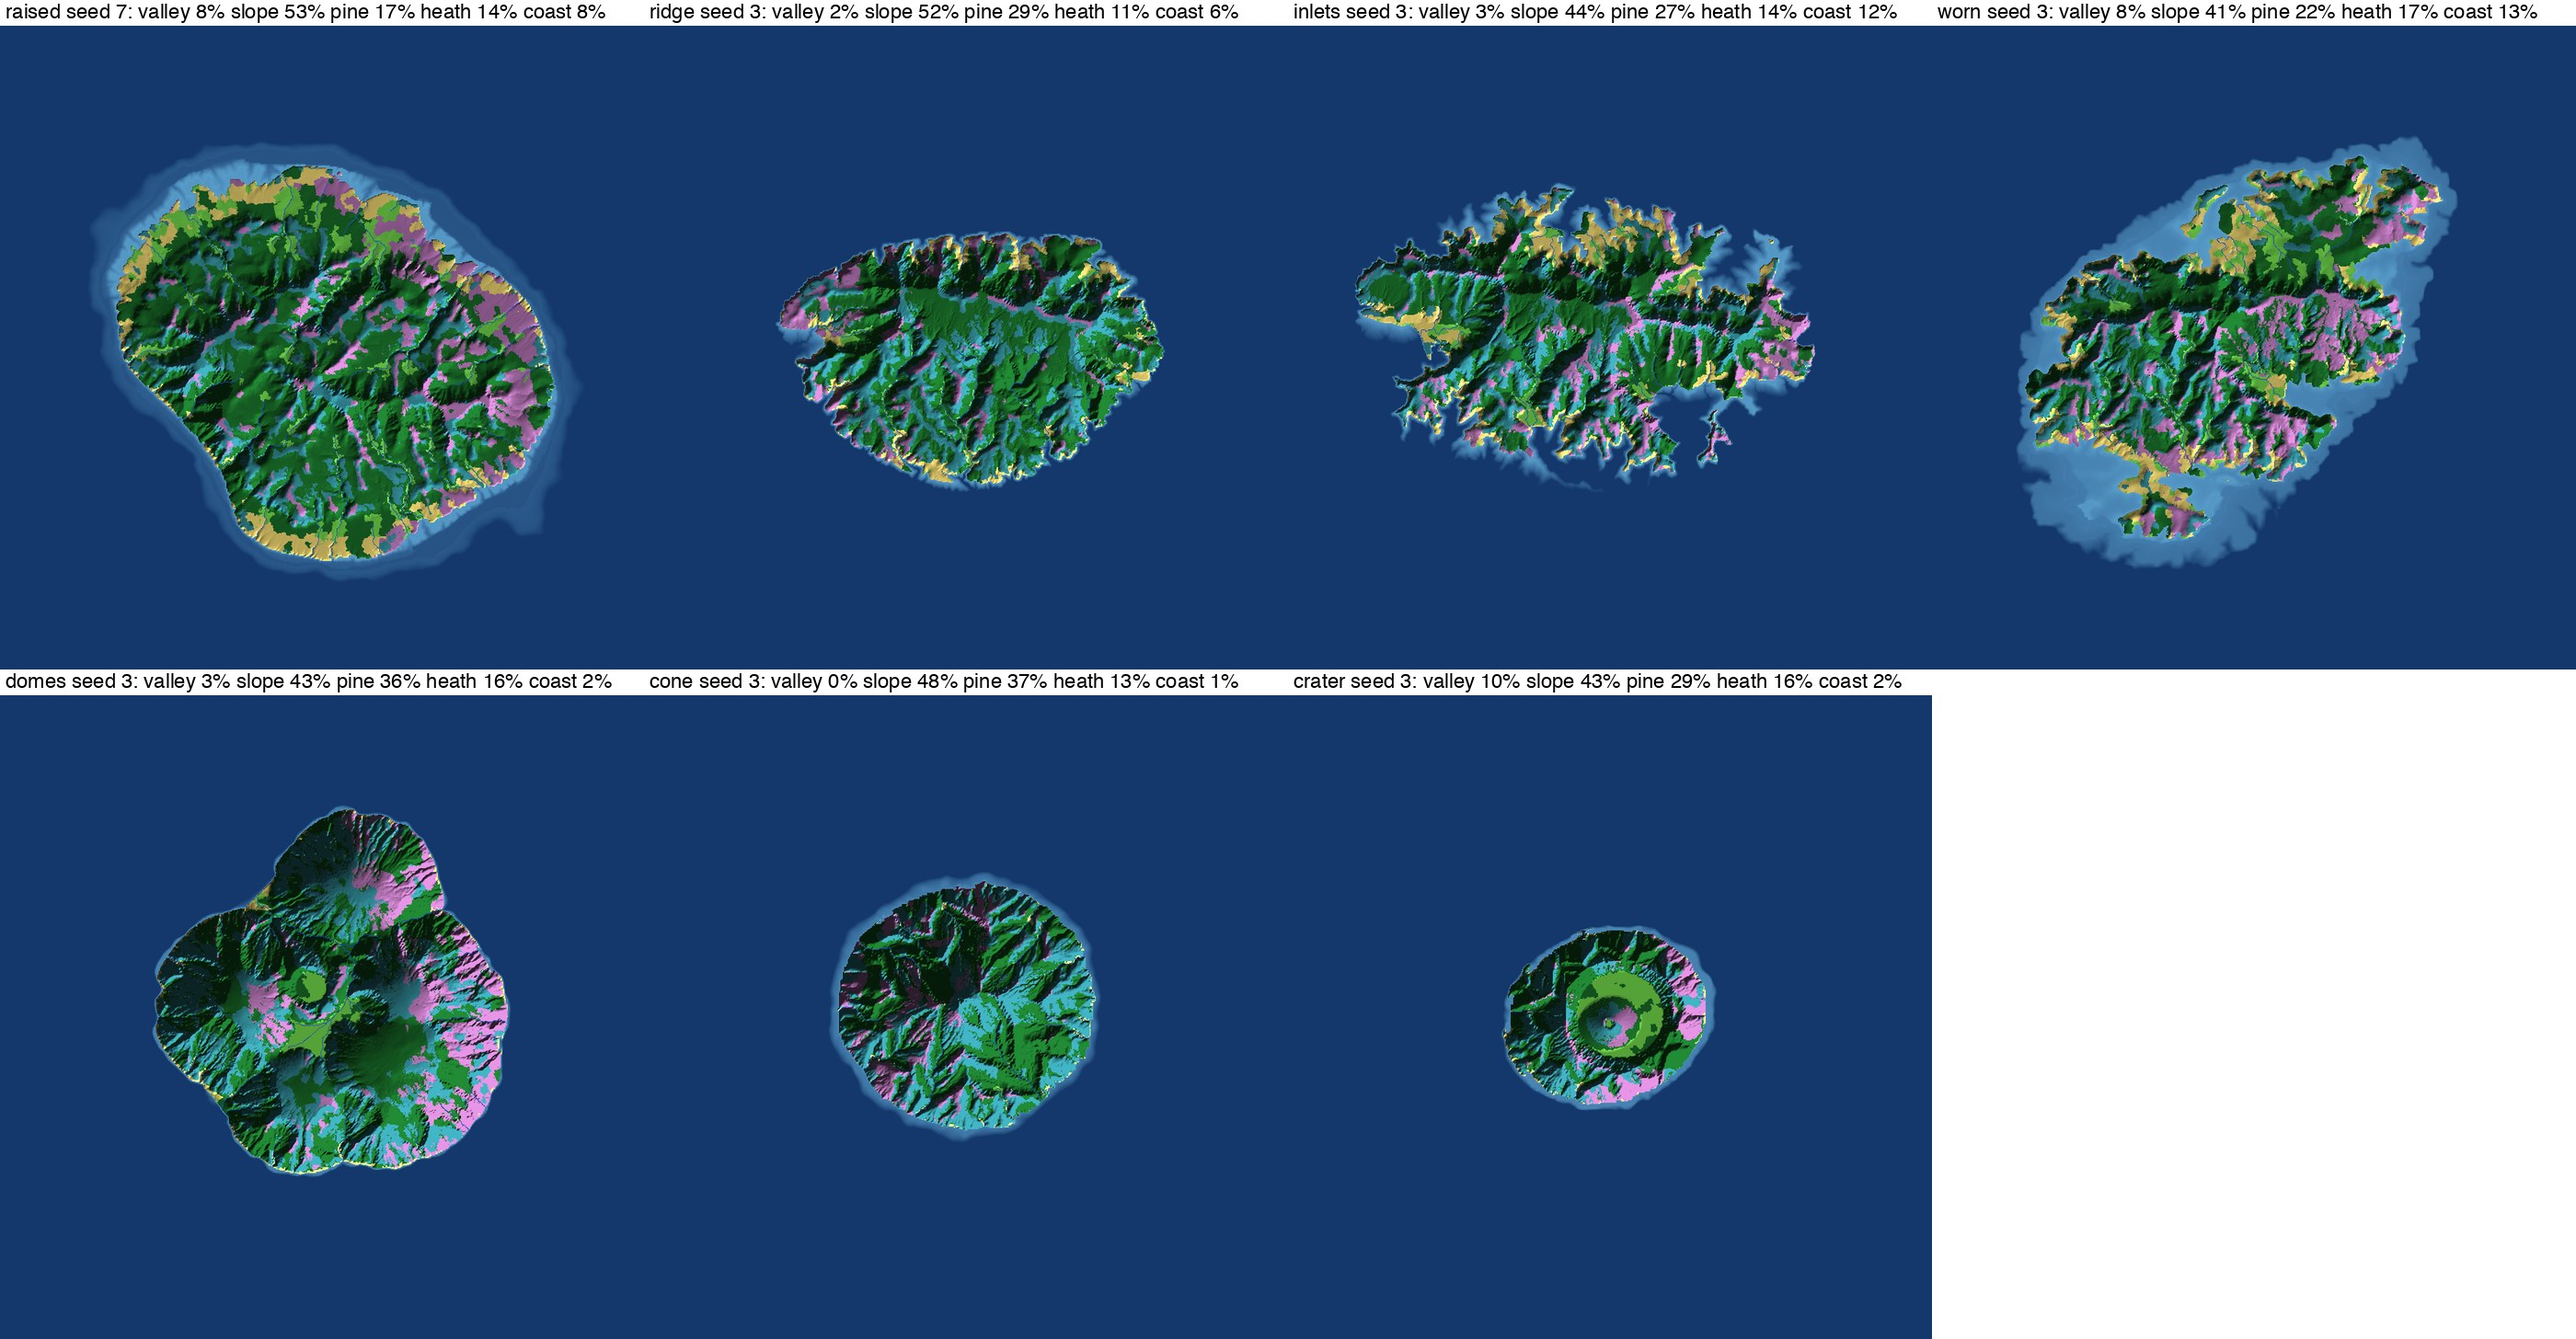
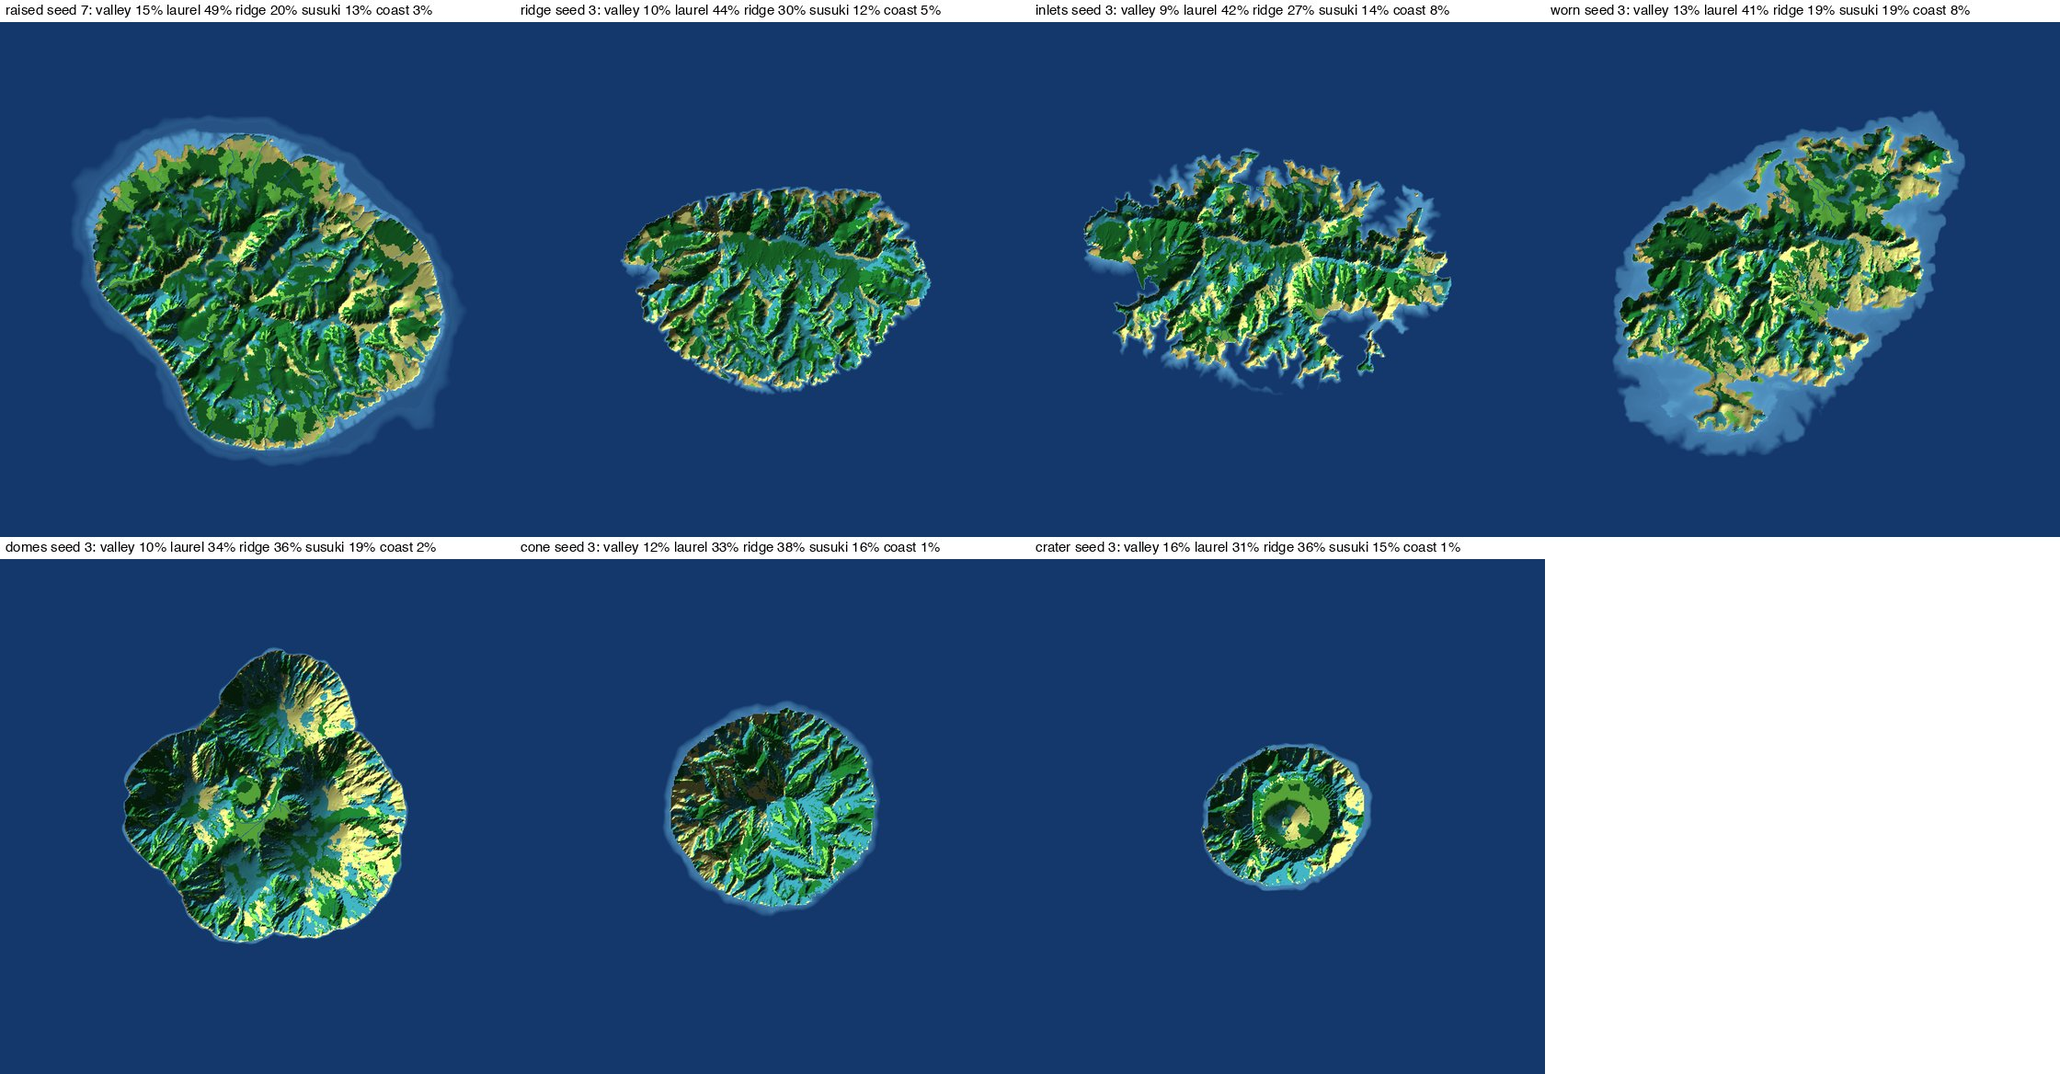
Grow the plants of the warm islands the land is measured against
The reference islands lie at 27 to 34 degrees north and carry evergreen
laurel forest, not beech and heather. Shii and tabu with camellia beneath,
a low ridge wood, susuki grass where it is windy, black pine behind the
shore; red and ash soils. The forest is closed, with bushes under it.
The note real-vegetation.md has the sources.

diff --git a/docs/interesting-world/notes/real-vegetation.md b/docs/interesting-world/notes/real-vegetation.md
@@ -1,0 +1,35 @@
+# What grows on the reference islands
+
+Written 2026-11-12, after the owner asked how the first plant communities compared with real life and found the purple ground odd. The eight islands the land is measured against (`real-islands.md`) lie between about 27° and 34° north. Their plants are the warm-temperate and subtropical evergreen forest of southern Japan. The first cast (beech, katsura, red pine, heather) came from the plan's cool-temperate setting and matched none of them.
+
+Sources are linked. Where a statement is from memory it says so.
+
+## What the sources say
+
+- **Izu Islands (Toshima, Mikurajima, Kōzushima, Aogashima).** Evergreen broadleaf forest of *Castanopsis sieboldii* (shii), *Machilus thunbergii* (tabu) and camellia runs from the shore to about 450 m on Miyakejima ([BirdLife](https://datazone.birdlife.org/site/factsheet/miyakejima-island-iba-japan/text)). Mikurajima has three zones: Castanopsis forest low down, a transitional zone, and a mixed *Buxus*, *Eurya* and *Trochodendron* forest high up, with trees shorter and leaves smaller as height rises ([Vegetation Science 18(2)](https://www.jstage.jst.go.jp/article/vegsci/18/2/18_KJ00006916479/_article/-char/en)). Toshima splits the same way, a lowland Castanopsis and Persea type and a highland Eurya and Styrax type ([Vegetation Science 18(1)](https://www.jstage.jst.go.jp/article/vegsci/18/1/18_KJ00006916465/_article/-char/en)). Mikurajima's largest shii has a trunk about 14 m round ([Tokyo parks](https://www.kankyo1.metro.tokyo.lg.jp/naturepark/english/know/park/introduction/kokuritsu/fujihakone/mikurashima/animals_and_plants.html)); the species commonly passes 20 m.
+- **Young volcanic ground.** On Miyakejima, bare lava is taken first by *Miscanthus condensatus* (Hachijō susuki, a tall grass), then by alder (*Alnus sieboldiana*) scrub, then deciduous trees, then the evergreen forest ([Forests 12(11)](https://mdpi.com/1999-4907/12/11/1435), [Plants 10(11)](https://mdpi.com/2223-7747/10/11/2500)).
+- **Wind and the sea.** On Hachijōjima, wind-exposed sea cliffs carry susuki grassland with dwarf bamboo, and sheltered gullies carry evergreen forest ([Kanagawa museum checklist](https://nh.kanagawa-museum.jp/assets/icp/contents/1600215159217/simple/Bull40_7-34_katsuyama.pdf)). On warm-temperate Japanese coasts the zones run inland from the shore: drift line, dune grass, a grass zone of *Miscanthus* and *Farfugium*, scrub of *Pittosporum tobira* and *Eurya emarginata*, then black pine (*Pinus thunbergii*) ([MLIT](https://www.mlit.go.jp/tagengo-db/en/H30-00998.html), [J. Forest Research](https://link.springer.com/article/10.1007/s10310-010-0207-8)).
+- **Ogasawara (Hahajima, Chichijima).** Three structures: mesic forest 13 to 20 m tall in moist lowlands with deep soil; dry forest with a closed canopy 3 to 8 m tall on slopes; dry scrub 0.3 to 1.5 m on windy ridges and sea cliffs ([Shimizu & Tabata](https://scholarspace.manoa.hawaii.edu/items/aa075e61-a32a-41e5-9bd5-458621dc7a33), [Ogasawara subtropical moist forests](https://en.wikipedia.org/wiki/Ogasawara_subtropical_moist_forests)).
+- **Tsushima.** Lowland forest of *Castanopsis*, with *Machilus* lowest; fir and evergreen oak on the hills ([Vegetation Science 25(2)](https://www.jstage.jst.go.jp/article/vegsci/25/2/25_KJ00005989741/_article/-char/en)).
+- **How closed the forest is.** Old shii forest plots hold about 1,400 to 1,500 stems a hectare and 30 to 60 m² of trunk a hectare ([FFPRI bulletin](https://www.jstage.jst.go.jp/article/ffpri/20/1/20_37/_article/-char/en), [Forests 8(10)](https://www.mdpi.com/1999-4907/8/10/397)). From memory: the canopy is closed, the floor is in deep shade under leaf litter with little grass, and there is a layer of shrubs and small trees (camellia, *Eurya*, *Aucuba*) beneath.
+
+Not found: land-cover shares for any of the eight islands, a vegetation survey of Kikaijima (tourism pages say sugar cane covers most of its flat land), and figures for crown width.
+
+## What that changed
+
+| Before | After | Why |
+|---|---|---|
+| Slope forest of beech | Laurel forest: shii with tabu, camellia beneath | The forest of every reference island below about 450 m |
+| Valley wood of katsura | Valley forest of tall tabu, also in deep hollows | Ogasawara's mesic forest and Hachijō's sheltered gullies |
+| Ridge pine on red boles | Ridge wood: low small-leaved evergreens (hisakaki) with some pine | Mikurajima's upper zone and Ogasawara's dry forest |
+| Scrub and purple heather | Susuki grass, dwarf bamboo and wind-cut bushes | Heather moor is north-west European (from memory); the windy ground of these islands is tall grass and scrub |
+| Coast strand of pine and scrub | Black pine and tobira scrub over dune grass, in a belt about 50 m deep | The coastal zones above; the belt was 150 m deep and read as a sandy plain |
+| Podzol on dry humps | Red soil there; black ash soil on the volcanic islands | Podzol belongs to cool conifer country (from memory); red and yellow soils and volcanic ash soils are the soils of southern Japan (from memory) |
+| Open wood, crowns 5 to 7 m across | Crowns closing over the slopes, and bushes under the trees | The stand figures above |
+
+## What is still unlike the real thing
+
+- **Tree height.** Real shii and tabu stand 13 to 20 m and more; ours are 10 to 15 m until the tree grower.
+- **One flora.** Hahajima and Chichijima are subtropical, with palms, pandanus and tree ferns; Kikaijima is farmland. A second flora, and land that people have cleared, are later rows.
+- **Young volcanic ground** has no grass and alder stage yet. The volcanic kinds are wooded like old islands.
+- **Height above the sea changes nothing yet.** The real forest shortens and changes above about 450 m; ours has no rule for height, and the island's top is 350 m.
